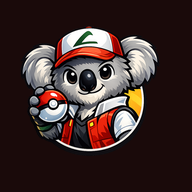
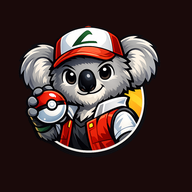
v4.74 — icône agrandie
Le logo à 59 % laissait le koala minuscule au centre. Comme il est de
forme ronde, il tient dans la zone de sécurité maskable à 80 %.

- icon-maskable-512 : 59 % -> 80 % (vérifié contre un masque circulaire)
- icon-192 / icon-512 : 86 % -> 88 %

Claude-Session: https://claude.ai/code/session_01CfEZ8TvW9TUHKjzJuC3v8M

Changed region(s): [[0.0938, 0.125, 0.8438, 0.8125], [0.5312, 0.1562, 0.5938, 0.1875]]

diff --git a/pokoala_mobile.html b/pokoala_mobile.html
@@ -3408,7 +3408,7 @@ async function driveLoad(silent=false){
 }
 
 // ── SCANNER ──
-const APP_VERSION = '4.73';
+const APP_VERSION = '4.74';
 const VISION_KEY = 'AIzaSyDFL387z4zPy6v_DDm4mkT4rnbjtDYj3yE';
 const VISION_URL = `https://vision.googleapis.com/v1/images:annotate?key=${VISION_KEY}`;
 

diff --git a/sw.js b/sw.js
@@ -1,4 +1,4 @@
-const CACHE_VERSION = '4.73';
+const CACHE_VERSION = '4.74';
 const CACHE_SHELL = `pokoala-shell-${CACHE_VERSION}`;
 // Cache images NON versionné : les images ne changent jamais, inutile de
 // les re-télécharger à chaque nouvelle version (cause de rate-limit TCGdex)
